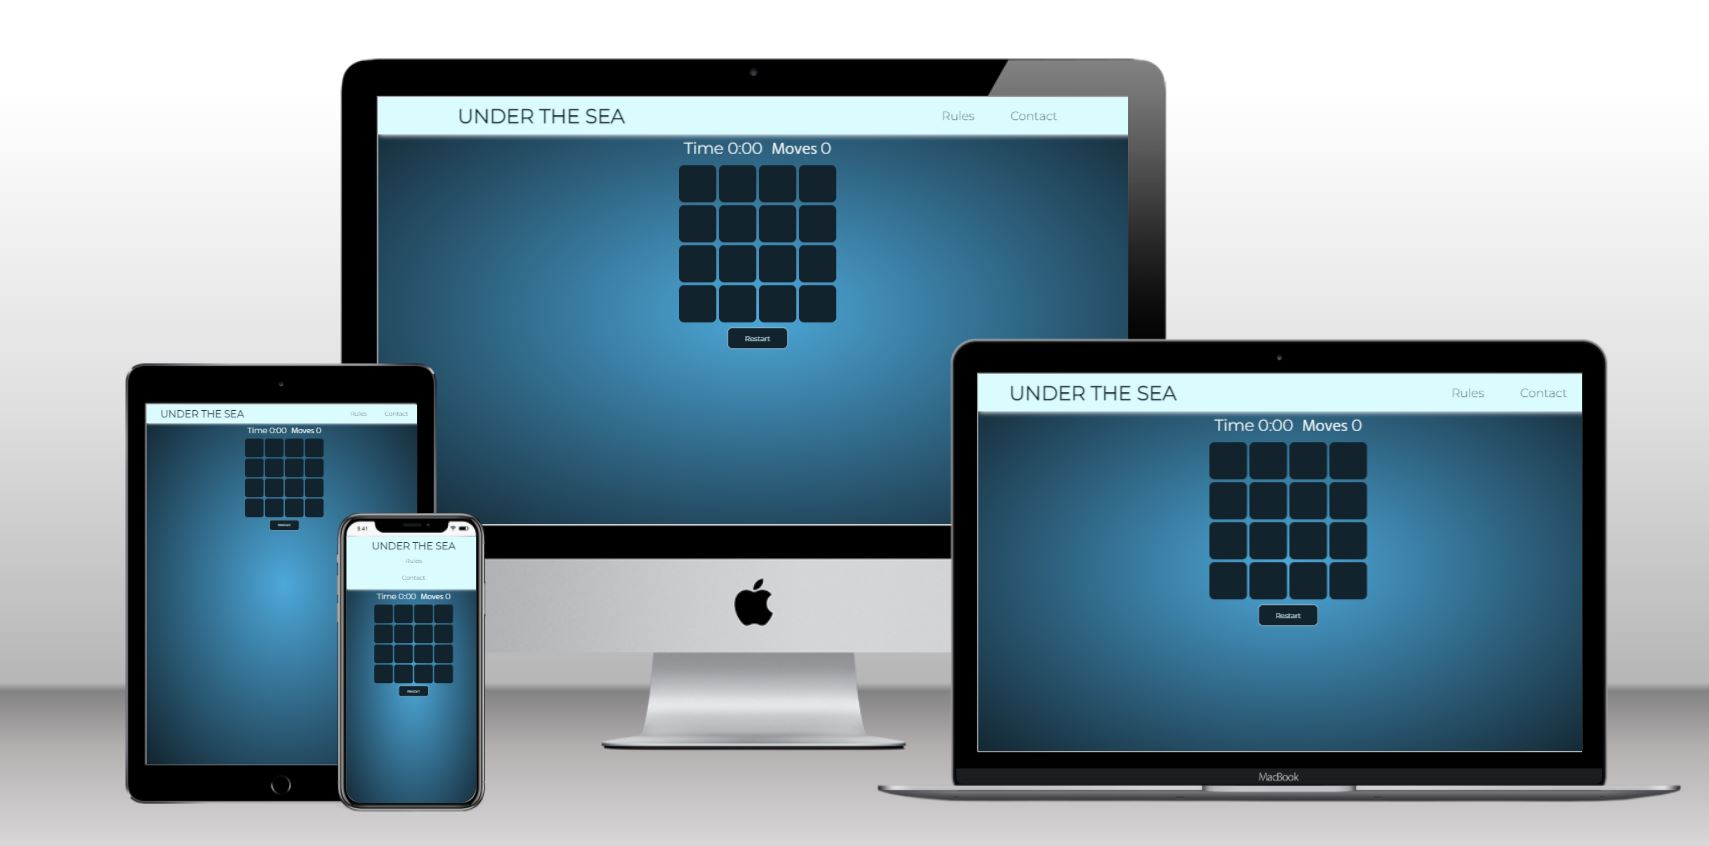
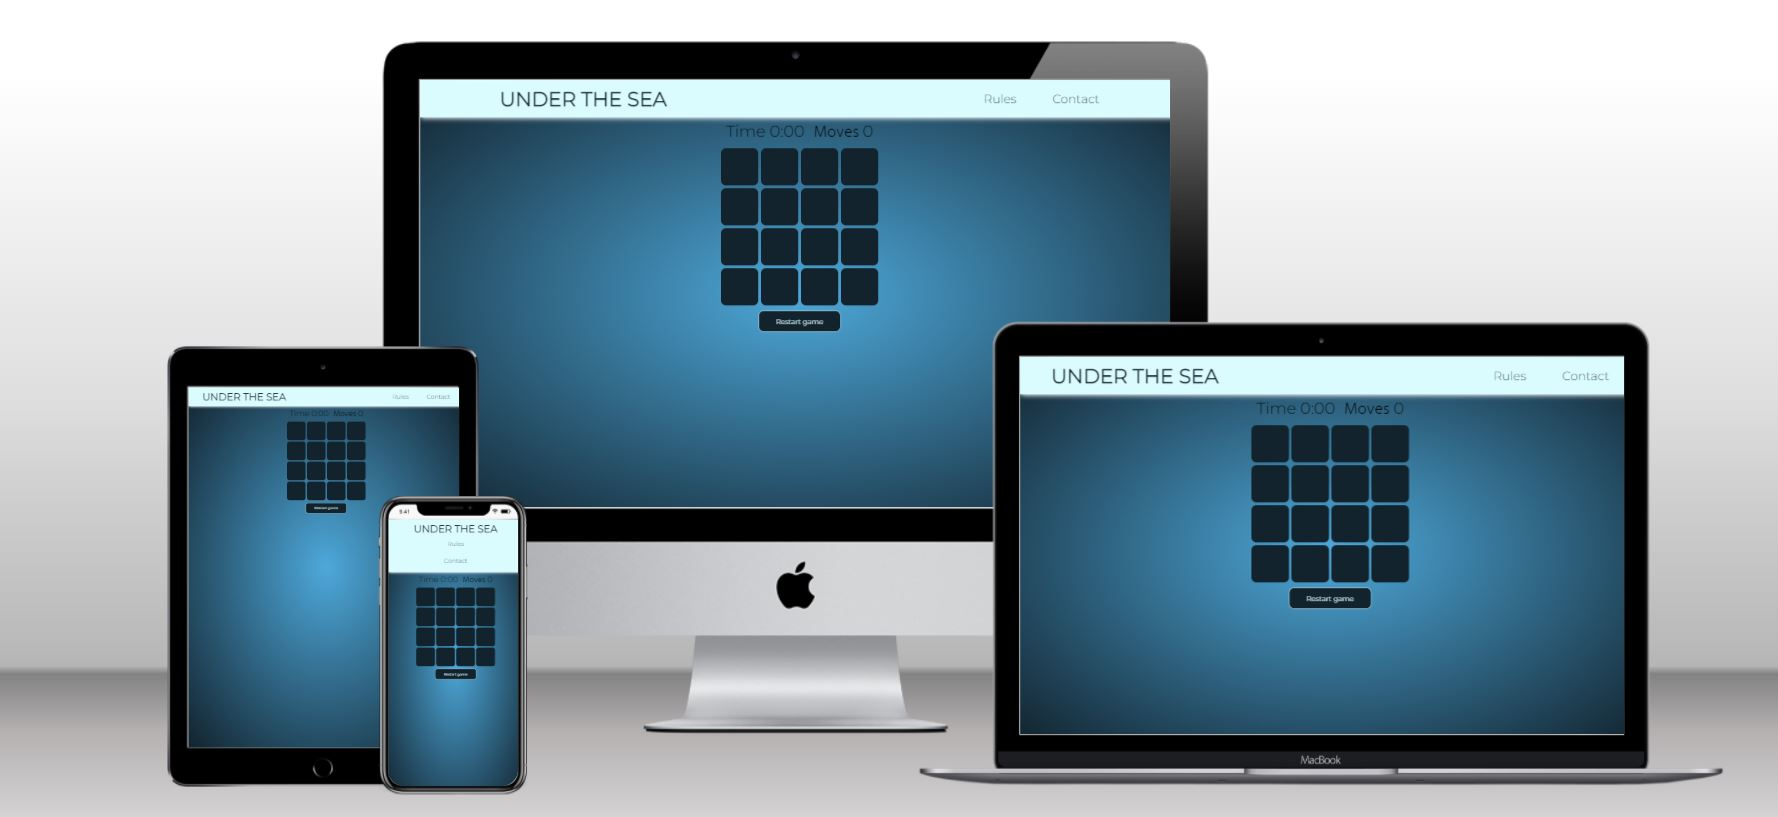
Doc: Update images for all features

Changed region(s): [[0.0, 0.0306, 1.0, 0.9792]]

diff --git a/README.md b/README.md
@@ -68,6 +68,8 @@ The colour scheme was chosen to tie in with the under the sea theme, with the di
 
 ![Colour Palette](assets/images/readme-images/under-the-sea-colours.png)
 
+Light Cian is used throughout the site, mainly on the navigation bar and the font colour. Gunmetal is use for the game cards and the buttons. The other colours are sprinkled througout the website.
+
 ### Fonts
 The fonts used are Montserrat and Hind. 
 Montserrat is used for the logo and the headers and Hind for the rest of the website. 
@@ -146,20 +148,28 @@ All site wide features will be fully responsive on all devices.
 *   The memory game card layout will be using a 4x4 style grid, with a total of 16 cards.
 *   User stories covered: 2 and 3
 
+![memory-cards](assets/images/readme-images/card-grid.JPG)
+
 #### Timer and Move counters 
 *   Timer and move counters will be on the landing page above the game 
 *   The game timer will be activated once the user flips the first card, the moves tracker will start when the second card has been flipped over, the moves tracker will count each match attempted.
 *   User stories covered: 2 and 3
+
+![memory-cards](assets/images/readme-images/timer-moves-counter.JPG)
 
 #### Restart button
 *   A restart button will be on the landing page under the game that when clicked will reset the game.
 *   The restart button, resets the game, when it is pressed the game turns any face-up cards back over, reshuffles them and resets the time and moves counter back to 0.
 *   User stories covered: 4
 
+![memory-cards](assets/images/readme-images/restart-button.JPG)
+
 #### Rules modal
 *   In the navigation bar and rules modal will be located
 *   The rules modal will explain how to play the game. A play button will be included on the modal to bring the user back to the game
 *   User stories covered: 1 and 7
+
+![rules-modal](assets/images/readme-images/rules-modal.JPG)
 
 ### Contact page
 #### Contact form
@@ -173,9 +183,13 @@ All site wide features will be fully responsive on all devices.
 *   This will allow the user to provide feedback if they have any questions or suggestions. The play again button will allow the user be brought back to the gameS
 *   User stories covered: 6
 
+![form](assets/images/readme-images/contact-form.JPG)
+
 #### Thank-you message
 *   On successful submission of the contact form, the user will be navigated to thank-you page displaying a thank you message.
 *   This will allow the user to know their message has been received. 
+
+![thank-you](assets/images/readme-images/thankyou-message.JPG)
 
 ### Future features to be implemented
 
